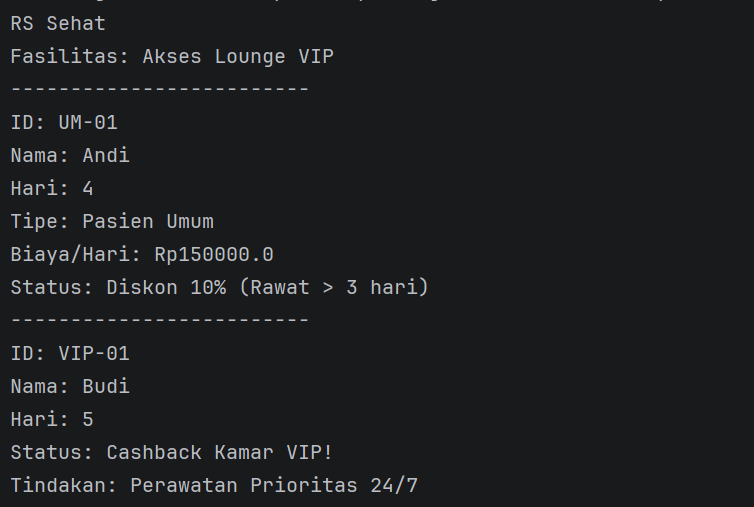
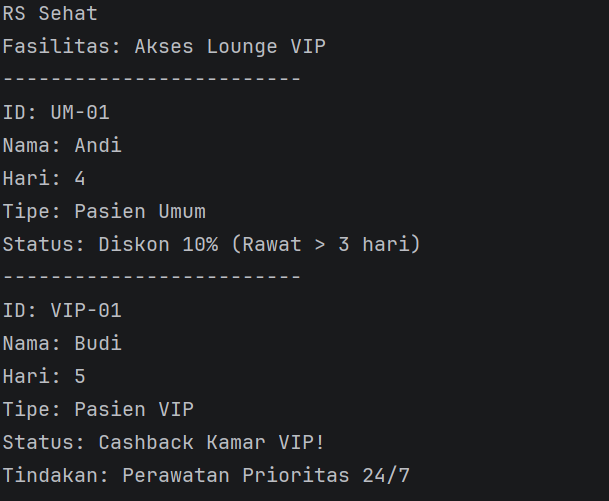
Rumah Sakit

diff --git a/PasienUmum.java b/PasienUmum.java
@@ -1,16 +1,13 @@
 public class PasienUmum extends Pasien {
-    private double biayaPerHari;
 
-    public PasienUmum(String idPasien, String nama, int hariRawat, double biayaPerHari) {
+    public PasienUmum(String idPasien, String nama, int hariRawat) {
         super(idPasien, nama, hariRawat);
-        this.biayaPerHari = biayaPerHari;
     }
 
     @Override
     public void infoPasien() {
         super.infoPasien();
         System.out.println("Tipe: Pasien Umum");
-        System.out.println("Biaya/Hari: Rp" + biayaPerHari);
     }
 
     @Override

diff --git a/PasienVIP.java b/PasienVIP.java
@@ -5,6 +5,12 @@ public class PasienVIP extends Pasien implements Fasilitas, Perawatan {
     }
 
     @Override
+    public void infoPasien() {
+        super.infoPasien();
+        System.out.println("Tipe: Pasien VIP");
+    }
+
+    @Override
     public void prosesPembayaran() {
         if (getHariRawat() >= 5) System.out.println("Status: Cashback Kamar VIP!");
         else System.out.println("Status: Biaya VIP Standar");

diff --git a/MainRumahSakit.java b/MainRumahSakit.java
@@ -7,7 +7,7 @@ public class MainRumahSakit {
 
         System.out.println("-------------------------");
 
-        Pasien p1 = new PasienUmum("UM-01", "Andi", 4, 150000);
+        Pasien p1 = new PasienUmum("UM-01", "Andi", 4);
         p1.infoPasien();
         p1.prosesPembayaran();
 
